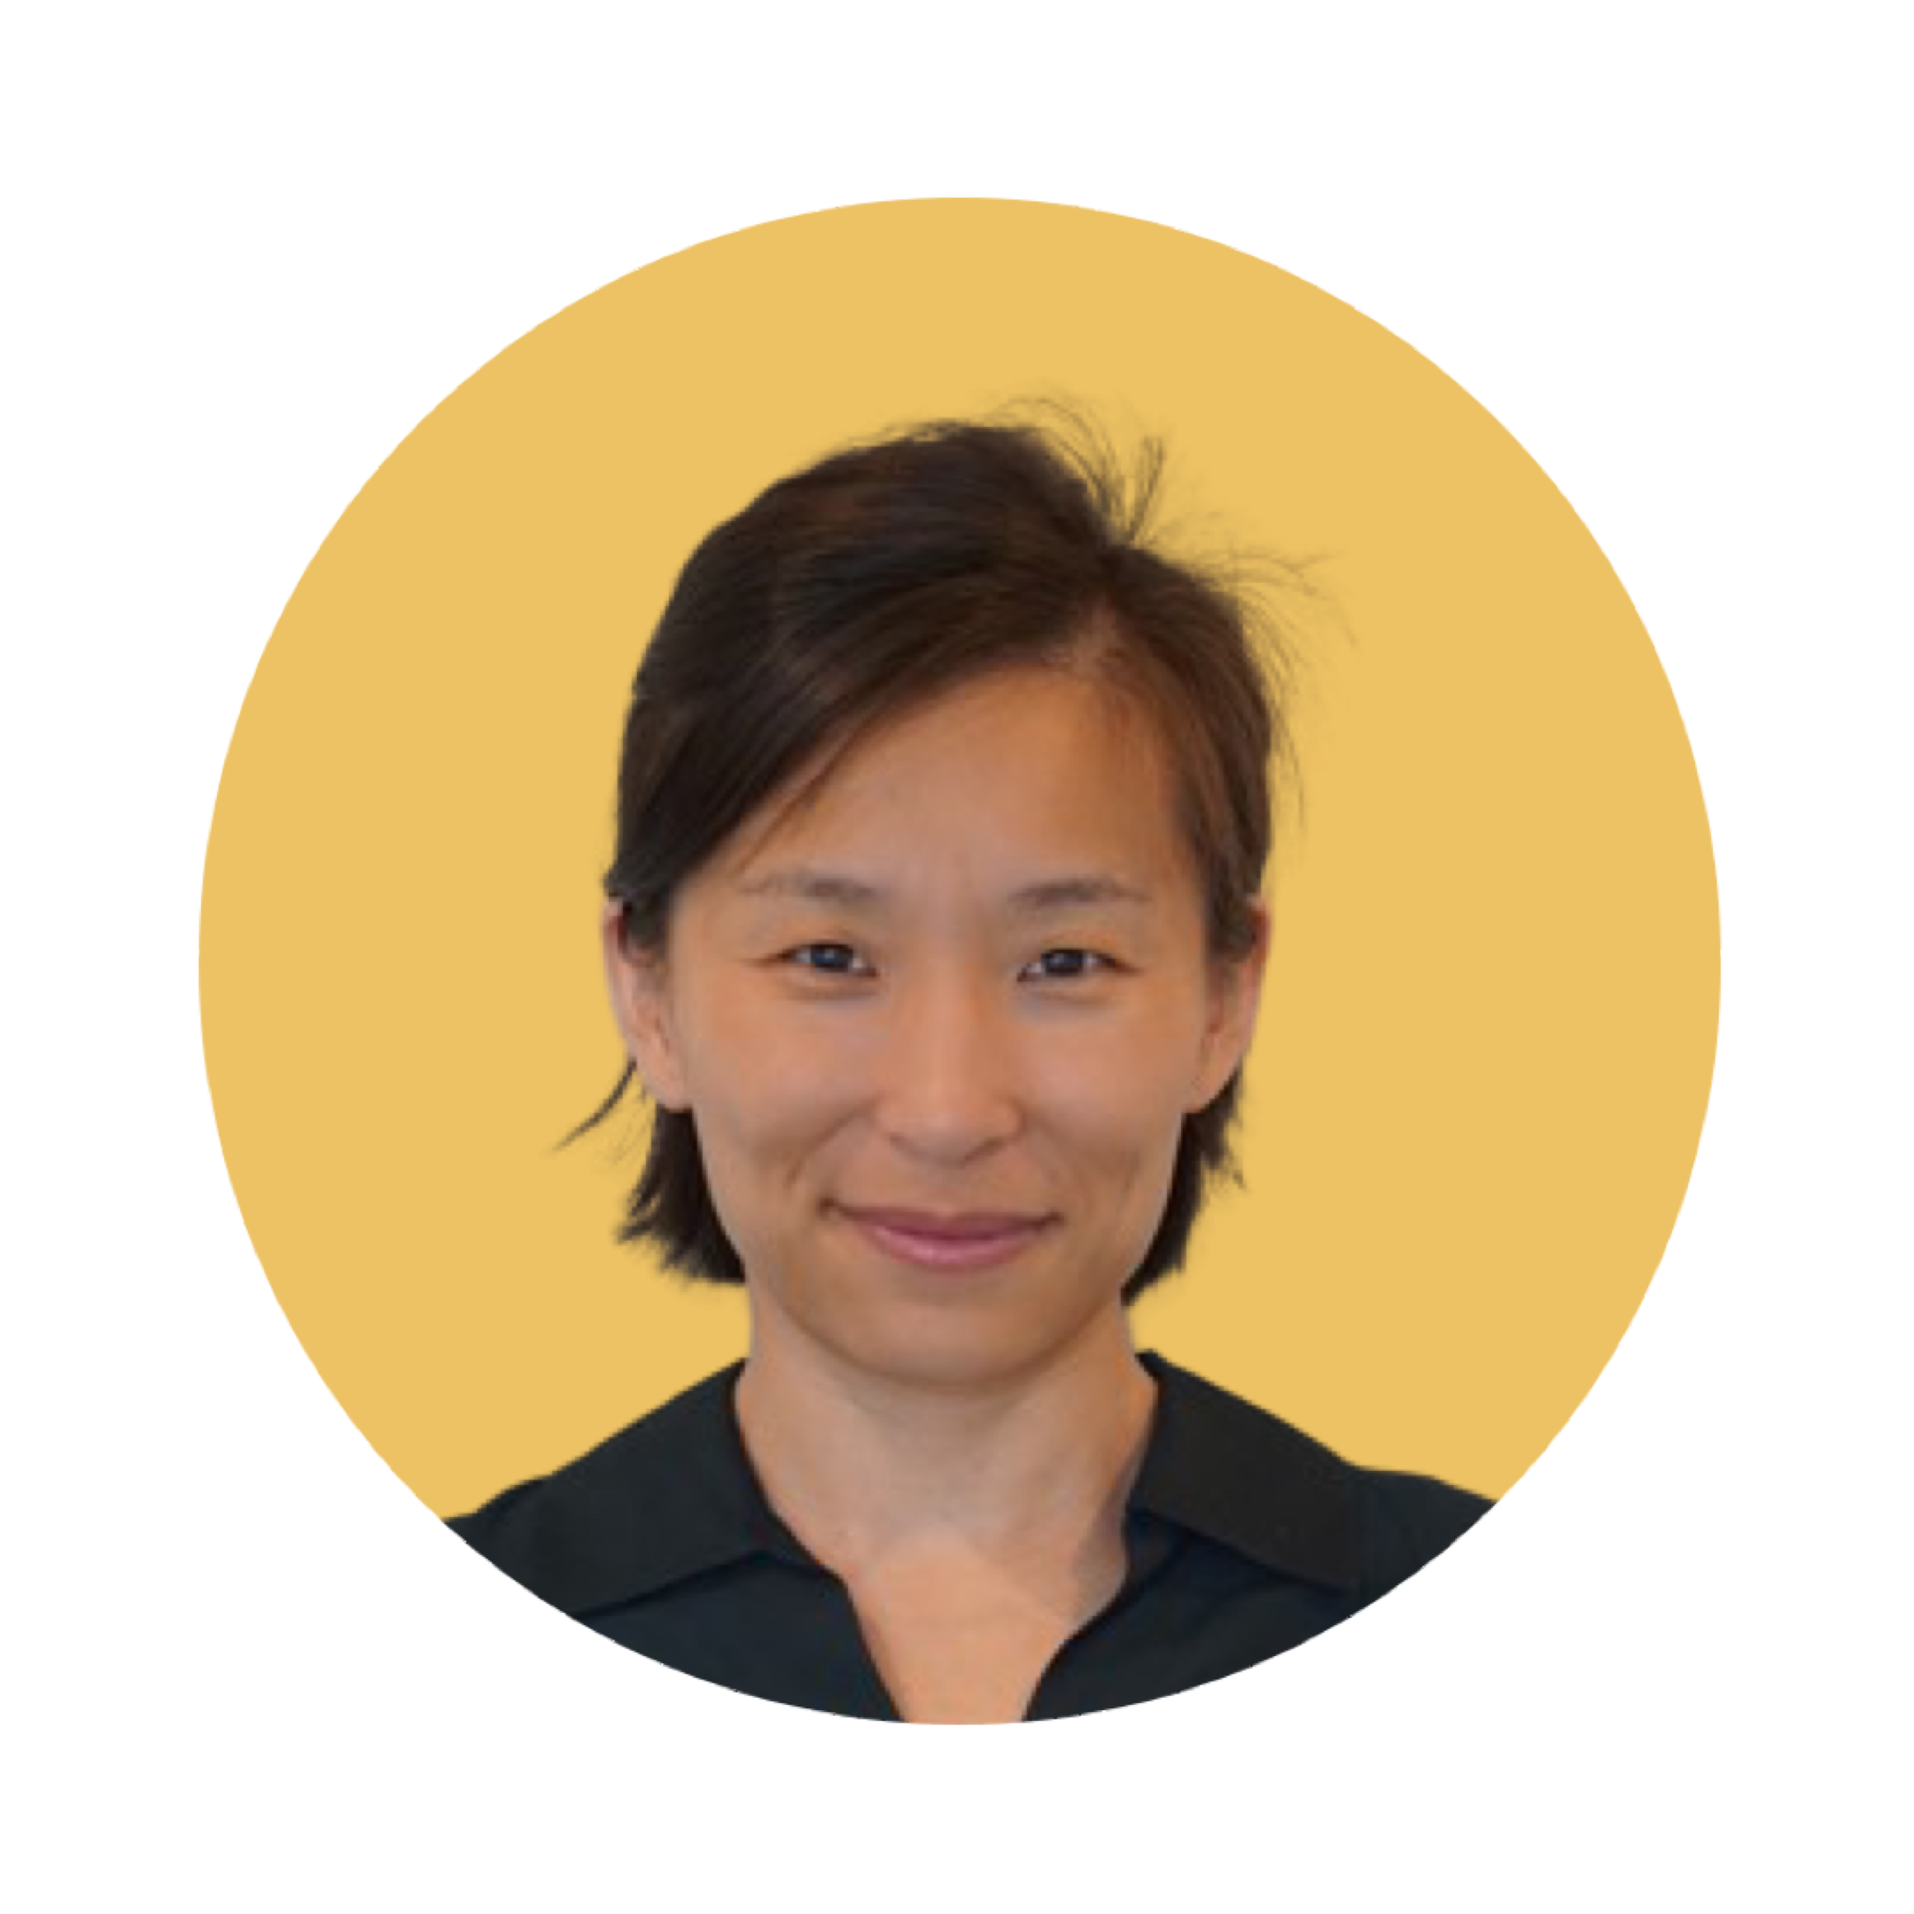
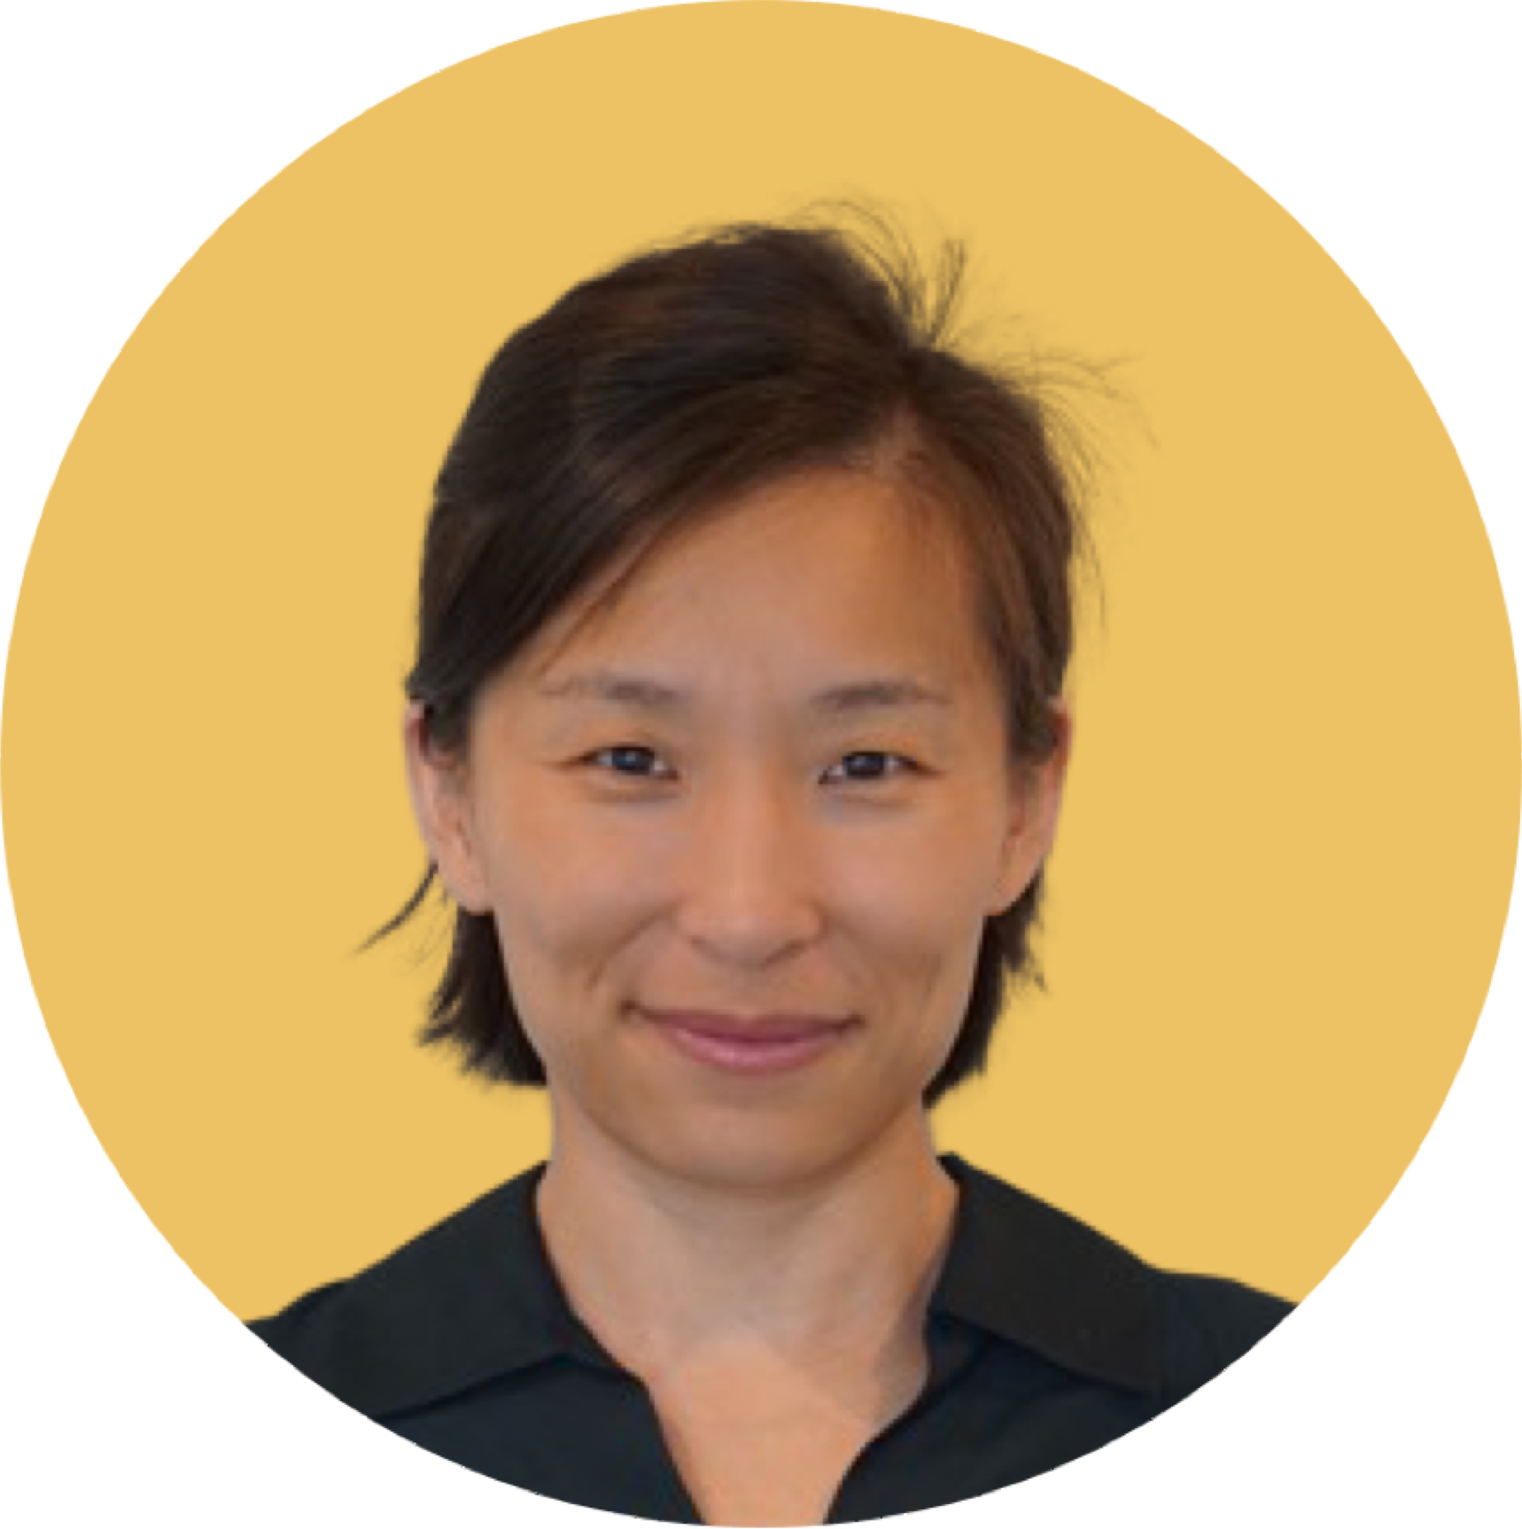
v0.9 with responsive layout and consistent color theme

diff --git a/index.html b/index.html
@@ -20,11 +20,11 @@
 
 
     <body >
-        <main class = "class="container"">
-        <header>
-            <nav class="navbar fixed-top navbar-expand-lg navbar-light custom-navbar ">
-                <div class="container-fluid">
-                    <a class="navbar-brand" href="#">Aihua Chen</a>
+        <main class="container pt-5">
+        <header class = "mb-5">
+            <nav class="navbar fixed-top navbar-expand-lg navbar-light  custom-navbar ">
+                <div class="container-fluid ">
+                    <a class="navbar-brand h1" href="#"> &nbsp;&nbsp;Aihua Chen</a>
                     <button class="navbar-toggler" type="button" data-bs-toggle="collapse" data-bs-target="#navbarNav"
                         aria-controls="navbarNav" aria-expanded="false" aria-label="Toggle navigation">
                         <span class="navbar-toggler-icon"></span>
@@ -88,19 +88,15 @@
             </nav>
         </header>
 
-        <section id="me" class="mt-5">
-            <div class="row mt-5 pt-5 text-center">
-                <div class = "col-12 h-25">
-                <img src="images/Aihua.PNG" class="mx-auto w-25 h-25" alt="Aihua Chen profile image">
+        <section id="me" >
+
+            <div class="row pt-5">
+                <div class="col-3">
+                    <img src="images/Aihua.PNG" class = "w-75 mx-auto d-block"  alt="Aihua Chen profile image">
+
                 </div>
-            </div>
-            <div class="row  ">
-                <div class="col-md-2 col-lg-3">
-                    <h4>About Me</h4>
-                </div>
-                <div class="w-100"></div>
-                <div class="col-md-10 col-lg-9 ">
-                    <p>Hi, I'm Aihua Chen. Born and raised in China, moved to the U.S. in 2013. </p>
+                <div class="col-9 my-auto">
+                    <p>Hi, I'm Aihua Chen. Born and raised in China, I earned my Bachelor's Degree of Engineering from Jilin University and Master of Applied Mathematics Degree from Beijing University of Posts and Telecommunications.Moved to the U.S. in 2013. </p>
                     <p>Driven by building user friendly,accessible AI services, I back to school on March 2020
                         pursuing a Master's Degree of Computer Science in AI track.I enjoy taking web, algorithm,
                         machine learning and natural language processing classes.To challenge myself,I will explore
@@ -121,10 +117,9 @@
                     <h4>Experience</h4>
                 </div>
                 <div class="col-9">
-                    <p>In China, I earned my Bachelor's Degree of Engineering from Jilin University and Master of
-                        Applied Mathematics Degree from Beijing University of Posts and Telecommunications.I was an
+                    <p>In China, I was an
                         intern of software engineer, worked as a product designer in industry.</p>
-                    <p>In the U.S., my first job was a research-based mooc developer. I run production-level Open
+                    <p>In the U.S., I worked as a research-based mooc developer. I run production-level Open
                         Edx and Discourse instances. Collected, analyzed learners behavior data, initiated
                         data-driven predictive action items for educational interventions and improving students
                         engagement. I also assisted in course content creation and course management.</p>
@@ -148,12 +143,12 @@
 
                     <h5>Web development Projects</h5>
                     <p>My World in Data: <a aria-label="Github My World in Data Repo" target="_blank"
-                            href="https://github.com/Aihua0055/World"><i class="bi bi-github "></i> </a></p>
+                            href="https://github.com/Aihua0055/World" class = "link-warning fs-4"><i class="bi bi-github "></i> </a></p>
                     <p>Color Harmonization: <a aria-label="Github Color Harmonization Repo" target="_blank"
-                            href="https://github.com/Aihua0055/computationalartstudio"><i class="bi bi-github"></i> </a>
+                            href="https://github.com/Aihua0055/computationalartstudio" class = "link-warning fs-4"><i class="bi bi-github"></i> </a>
                     </p>
                     <p>8-D Wellness: <a aria-label="Github 8-D Wellness Repo" target="_blank"
-                            href="https://github.com/Aihua0055/wellness"><i class="bi bi-github"></i> </a></p>
+                            href="https://github.com/Aihua0055/wellness" class = "link-warning fs-4"><i class="bi bi-github"></i> </a></p>
                     <h5>Machine Learning Projects</h5>
                     <p>To clean up code.</p>
 
@@ -210,8 +205,8 @@
                     <h4>Read</h4>
                 </div>
                 <div class="col-9">
-                    <p>See you on Goodreads</p>
-                    <a aria-label="Goodreads" target="_blank"
+                    <h5>See you on Goodreads</h5>
+                    <a aria-label="Goodreads" target="_blank" class = "link-warning fs-4"
                         href="https://www.goodreads.com/user/show/118679606-aihua"><i class="bi bi-book"></i></a>
 
                 </div>
@@ -225,24 +220,24 @@
 
                 </div>
                 <div class="col-9">
-                    <h5>Contact to have a non-alcoholic drink together.</h5>
+                    <h5>Contact to know my funniest facts.</h5>
                     <form>
                         <div class="form-group">
-                            <label for="exampleFormControlInput1">Your Name</label>
-                            <input type="text" class="form-control" id="exampleFormControlInput1">
+                            <label for="name">Your Name</label>
+                            <input type="text" class="form-control" id="name">
                         </div>
                         <div class="form-group mt-3">
-                            <label for="exampleFormControlInput1">Your Email</label>
-                            <input type="email" class="form-control" id="exampleFormControlInput1"
+                            <label for="email">Your Email</label>
+                            <input type="email" class="form-control" id="email"
                                 placeholder="name@example.com">
                         </div>
                         <div class="form-group mt-3">
-                            <label for="exampleFormControlTextarea1">Let's have a drink together: which is your favorite
+                            <label for="comments">Let's have a drink together: which is your favorite
                                 non-alcoholic drink? Where do you recommend?</label>
-                            <textarea class="form-control" id="exampleFormControlTextarea1" rows="3"></textarea>
+                            <textarea class="form-control" id="comments" rows="3"></textarea>
                         </div>
                         <div class="mt-5 text-center">
-                            <input type="button" name="submit" id="submit" value="Submit" class="btn btn-info" />
+                            <input type="button" name="submit" id="submit" value="Submit" class="btn btn-warning" />
                             <input type="reset" name="reset" id="reset" value="Reset" class="btn btn-secondary" />
                         </div>
                     </form>
@@ -264,11 +259,11 @@
         </div>
         <footer class="navbar justify-content-center  ">
             <div class="fs-2 mb-1">
-                <a class="link-info" aria-label="Linkedin" target="_blank"
+                <a class="link-warning" aria-label="Linkedin" target="_blank"
                     href="https://www.linkedin.com/in/aihua-chen-24326048/"><i class="bi bi-linkedin"></i></a>
-                <a class="link-info" aria-label="Github" target="_blank" href="https://github.com/Aihua0055"><i
+                <a class="link-warning" aria-label="Github" target="_blank" href="https://github.com/Aihua0055"><i
                         class="bi bi-github"></i></a>
-                <a class="link-info" aria-label="Email" target="_blank" href="mailto: aihuacville@gmail.com"> <i
+                <a class="link-warning" aria-label="Email" target="_blank" href="mailto: aihuacville@gmail.com"> <i
                         class="bi bi-envelope"></i></a>
             </div>
 

diff --git a/style/style.css b/style/style.css
@@ -8,12 +8,12 @@ p {
 }
 
 .nav-item:hover {
-    background-color: #00FFFF;
+    background-color:#f2cf7f;
 }
 
 
 hr.custom {
-    border-top: 2px solid #00BBD1;
+    border-top: 3px solid #f2cf7f;
   }
   
 
@@ -46,8 +46,8 @@ hr.custom {
 }
 
 .grid-item:hover{
-  border: 0.5rem solid #0dcaf0;
-  background-color: #0dcaf0;
+  border: 0.5rem solid #f2cf7f;
+  background-color: #f2cf7f;
 }
 .grid-item:hover .title{
   color:var(--white)
